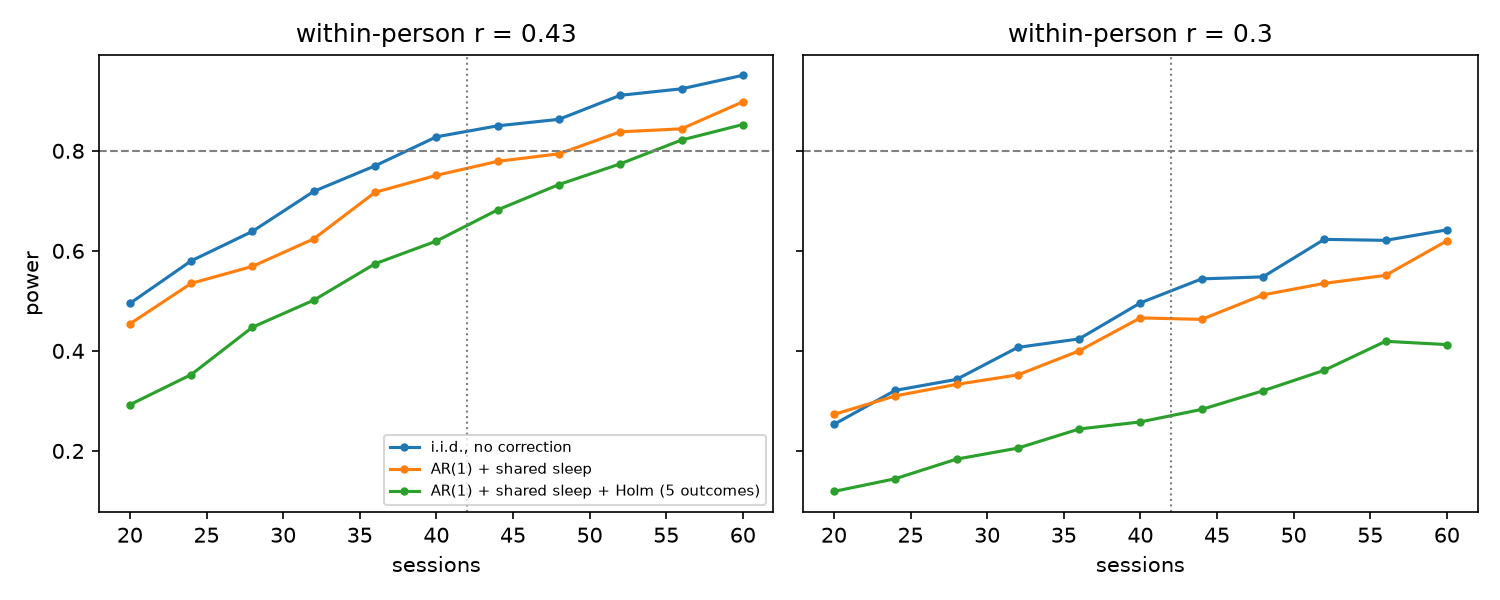
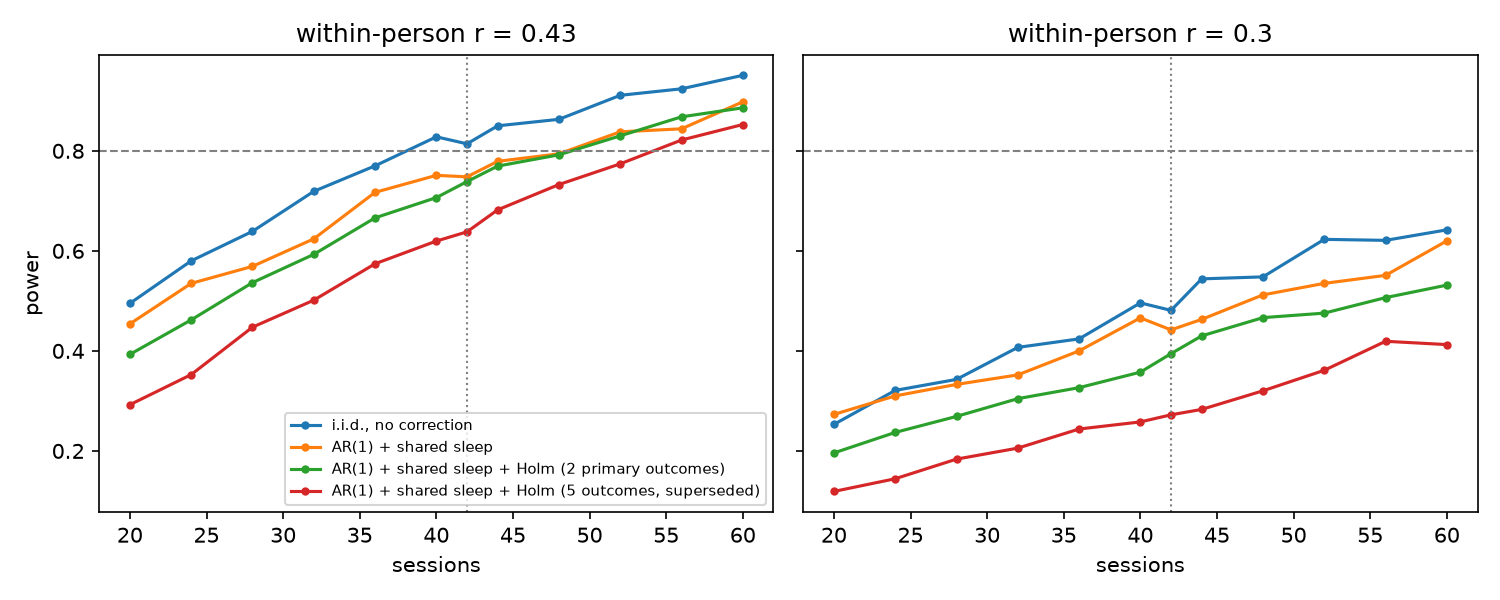
docs(MB-04): 2-outcome Holm family (P1 2-back d', P2 recall), effective power re-run, design.md aligned

diff --git a/analysis/python/scripts/power_report.py b/analysis/python/scripts/power_report.py
@@ -12,7 +12,7 @@ from mindbench import power
 OUT = Path(__file__).resolve().parents[3] / "docs" / "design"
 FIG = OUT / "figures"
 SEED = 20261117
-NS = list(range(20, 61, 4))
+NS = [20, 24, 28, 32, 36, 40, 42, 44, 48, 52, 56, 60]
 KW = dict(phi=0.3, paired_sleep=True, method="ar1")
 
 results = {"ns": NS, "curves": {}, "detectable": {}}
@@ -20,9 +20,20 @@ fig, axes = plt.subplots(1, 2, figsize=(10, 4), sharey=True)
 for ax, r in zip(axes, (0.43, 0.30)):
     iid = power.power_curve(NS, r=r, n_sims=1000, seed=SEED)
     ar = power.power_curve(NS, r=r, n_sims=1000, seed=SEED, **KW)
-    holm = power.power_curve(NS, r=r, n_sims=1000, seed=SEED, holm_m=5, **KW)
-    results["curves"][str(r)] = {"iid_uncorrected": iid, "ar1_shared_sleep": ar, "ar1_shared_sleep_holm5": holm}
-    for label, c in (("i.i.d., no correction", iid), ("AR(1) + shared sleep", ar), ("AR(1) + shared sleep + Holm (5 outcomes)", holm)):
+    holm2 = power.power_curve(NS, r=r, n_sims=1000, seed=SEED, holm_m=2, **KW)
+    holm5 = power.power_curve(NS, r=r, n_sims=1000, seed=SEED, holm_m=5, **KW)
+    results["curves"][str(r)] = {
+        "iid_uncorrected": iid,
+        "ar1_shared_sleep": ar,
+        "ar1_shared_sleep_holm2": holm2,
+        "ar1_shared_sleep_holm5_reference": holm5,
+    }
+    for label, c in (
+        ("i.i.d., no correction", iid),
+        ("AR(1) + shared sleep", ar),
+        ("AR(1) + shared sleep + Holm (2 primary outcomes)", holm2),
+        ("AR(1) + shared sleep + Holm (5 outcomes, superseded)", holm5),
+    ):
         ax.plot([n for n, _ in c], [p for _, p in c], marker="o", ms=3, label=label)
     ax.axhline(0.8, color="gray", ls="--", lw=1)
     ax.axvline(42, color="gray", ls=":", lw=1)
@@ -34,9 +45,14 @@ fig.tight_layout()
 fig.savefig(FIG / "power_curves.png", dpi=150)
 
 # Detectable r at 42 sessions (80% power), Holm over 5 true outcomes, AR(1) + shared sleep
-for r in (0.40, 0.45, 0.50, 0.55, 0.60):
-    results["detectable"][str(r)] = power.simulate_holm_power(
-        n=42, r=r, m=5, n_true=5, n_sims=1000, seed=SEED, **KW
+for m in (2, 5):
+    for r in (0.35, 0.40, 0.45, 0.50, 0.55):
+        results["detectable"][f"holm{m}_r{r}"] = power.simulate_holm_power(
+            n=42, r=r, m=m, n_true=m, n_sims=1000, seed=SEED, **KW
+        )
+for nt in (1, 2):
+    results["detectable"][f"holm2_one_true_n{nt}_r0.43"] = power.simulate_holm_power(
+        n=42, r=0.43, m=2, n_true=nt, n_sims=1000, seed=SEED, **KW
     )
 
 # AM/PM paired analytic (days = pairs)
@@ -46,4 +62,4 @@ results["paired_dz_for_80_at_21"] = 0.65
 print(json.dumps(results["detectable"]), json.dumps(results["paired"]))
 for r, d in results["curves"].items():
     for k, c in d.items():
-        print(r, k, [(n, round(p, 2)) for n, p in c if n in (28, 40, 44, 48, 60)])
+        print(r, k, [(n, round(p, 2)) for n, p in c if n in (28, 40, 42, 48, 60)])

diff --git a/analysis/python/tests/test_power.py b/analysis/python/tests/test_power.py
@@ -88,3 +88,13 @@ def test_power_curve_20_to_60():
     ps = [p for _, p in curve]
     assert ns == [20, 30, 40, 50, 60]
     assert ps[-1] > ps[0] + 0.3
+
+
+def test_two_outcome_holm_costs_less_than_five():
+    """Two-outcome Holm family (the preregistered family) keeps more power than five outcomes."""
+    kw = dict(n=42, r=0.43, phi=0.3, paired_sleep=True, method="ar1", n_sims=1500, seed=SEED)
+    uncorrected = power.simulate_corr_power(**kw)
+    holm2 = power.simulate_holm_power(m=2, n_true=2, **kw)
+    holm5 = power.simulate_holm_power(m=5, n_true=5, **kw)
+    assert holm5 < holm2 < uncorrected + 0.03
+    assert holm2 == pytest.approx(0.74, abs=0.05)

diff --git a/docs/design/power.md b/docs/design/power.md
@@ -1,34 +1,53 @@
 # Power Analysis (MB-04)
 
-Code: `analysis/python/mindbench/power.py`. Tests: `analysis/python/tests/test_power.py`. Figures and numbers: `figures/power_curves.png`, `power_results.json` (made by `analysis/python/scripts/power_report.py`, seed 20261117, 1,000 simulations per point, so about +/-0.015 sampling error).
+Code: `analysis/python/mindbench/power.py`. Tests: `analysis/python/tests/test_power.py`. Figure and numbers: `figures/power_curves.png`, `power_results.json` (made by `analysis/python/scripts/power_report.py`; seed 20261117; 1,000 simulations per point, so sampling error is about +/-0.015 and neighboring points can be slightly non-monotone).
 
 ## Model
-DV = r * sleep + noise. Sleep ~ N(0, 1); noise is unit-variance AR(1) with phi = 0.3; r is the within-person correlation. **AM and PM sessions of a day share the same night's sleep** (as in the design), so the predictor is autocorrelated too. The analysis uses a one-step Cochrane-Orcutt AR(1) correction. "Effective power" below includes the AR(1) correction and Holm over the 5 primary outcomes (all sharing the sleep predictor, independent errors).
+DV = r * sleep + noise. Sleep ~ N(0, 1); noise is unit-variance AR(1) with phi = 0.3; r is the within-person correlation. **AM and PM sessions of a day share the same night's sleep** (as in the design), so the predictor is autocorrelated too. The analysis uses a one-step Cochrane-Orcutt AR(1) correction. "Effective power" includes the AR(1) correction and Holm over the **2 primary outcomes** (P1 2-back d', P2 recall proportion), which share the sleep predictor and have independent errors.
+
+## Primary outcomes: why these two (Bharg's decision, Nov 17, 2026)
+Evidence: Lim & Dinges (2010), *Psychol. Bull.* 136(3), 375-389, Table 2 (24-48 h **total** sleep deprivation; text read from the paper, **verified**):
+
+| Domain (outcome) | Combined g | Maps to |
+|---|---|---|
+| Working memory, accuracy | -0.555 | **P1 2-back d'** |
+| Working memory, RT | -0.515 | |
+| Complex attention, accuracy | -0.479 | Stroop, Posner (as classified in the paper) |
+| Short-term memory, recall | -0.383 | **P2 free recall** |
+| Complex attention, RT | -0.312 | S1/S2 are RT difference scores |
+| Processing speed, RT | -0.302 | |
+| Simple attention (lapses / RT) | -0.762 / -0.732 | not in this battery |
+
+- P1 has the largest pooled effect among domains the battery measures, and the meta-analysis includes n-back studies directly (e.g. Choo et al. 2005, g = -0.660 for working memory).
+- P2 has a significant pooled recall effect with directly matching verbal-recall studies (individual effects -0.582 and -0.430).
+- Stroop and Posner fall under complex attention, but the pooled domain effect mixes many task types, and the study-level Stroop effects in the table are small or inconsistent (range -0.511 to +0.098), so **the interference and validity scores (differences between conditions) have weaker evidence**. The contrast threshold has no matching domain. These go to secondary/exploratory (S1-S3), outside the Holm family.
+
+Caveats: (1) these effects are from total sleep deprivation; natural sleep variation probably gives smaller effects; (2) the g values are not used as expected effect sizes (the effect-size review is deferred stretch work); (3) the task-to-domain mapping follows the paper's classification, checked only for the studies listed above; (4) the choice is made before any data collection.
 
 ## Spec-verified checks (tests)
-Analytic paired t: d_z = 0.5 needs n = 34 (0.808); d_z = 0.3 needs n = 90 (0.804); 21 AM/PM pairs at d_z = 0.65 give 0.809. Simulated i.i.d. correlation test: n = 40, r = .43 gives about 0.80; n = 28 gives about 0.65; n = 40, r = .30 gives about 0.48.
+Analytic paired t: d_z = 0.5 needs n = 34 (0.808); d_z = 0.3 needs n = 90 (0.804); 21 AM/PM pairs at d_z = 0.65 give 0.809. Simulated i.i.d. correlation test: n = 40, r = .43 about 0.80; n = 28 about 0.65; n = 40, r = .30 about 0.48.
 
-## Findings that differ from, or add to, the spec
-1. **AR(1) errors alone do not inflate type-I error** when sleep is independent across sessions (about 0.050). Inflation appears because AM and PM share the same sleep value: uncorrected type-I is about 0.083 at n = 40, phi = 0.3. The AR(1) correction brings it to about 0.061 (slightly liberal). This still motivates the AR model in MB-18, but the reason is the shared nightly sleep.
-2. Holm and the AR/shared-sleep results are **calibrated by simulation, not from the spec**.
+## Findings that differ from, or add to, the spec (kept for MB-18)
+1. **AR(1) errors alone do not inflate type-I error** when sleep is independent across sessions (about 0.050). Inflation appears because AM and PM share the same sleep value: uncorrected type-I is about 0.083 at n = 40, phi = 0.3; the AR(1) correction brings it to about 0.061 (slightly liberal). This still motivates the AR model in MB-18, but the reason is the shared nightly sleep. **MB-18 must model this (AR(1) errors, and day as a grouping term).**
+2. Holm and AR/shared-sleep results are **calibrated by simulation, not from the spec**.
 
-## Power at the planned 42 sessions (r = 0.43, the spec's 80% target)
-| Sessions | i.i.d., no correction | AR(1) + shared sleep | + Holm over 5 outcomes |
-|---|---|---|---|
-| 28 | 0.64 | 0.57 | 0.45 |
-| 40 | 0.83 | 0.75 | 0.62 |
-| **42 (planned)** | about 0.84 | about 0.77 | **about 0.66** |
-| 48 | 0.86 | 0.79 | 0.73 |
-| 60 | 0.95 | 0.90 | 0.85 |
+## Power at the planned 42 sessions (direct simulation at n = 42)
+| Within-person r | i.i.d., no correction | AR(1) + shared sleep | + Holm, 2 primary outcomes (both true) | Superseded: Holm over 5 |
+|---|---|---|---|---|
+| 0.43 | 0.81 | 0.75 | **0.74** | 0.64 |
+| 0.30 | 0.48 | 0.44 | **0.39** | 0.27 |
 
-For a smaller effect (r = 0.30) effective power at 42 sessions is only about 0.26 to 0.28 (Holm, AR(1)). Effect size detectable at 80% effective power with 42 sessions (Holm, AR(1), shared sleep): **r of about 0.49** (power 0.70 at r = .45, 0.83 at r = .50, 0.91 at r = .55).
+(An earlier draft of this document quoted "about 0.84 / 0.77 / 0.66" for 42 sessions; those were rough, not direct simulations, and are replaced by the values above.)
 
-**AM vs PM (H2):** 21 paired days at d_z = 0.65 give 0.81 for one test but **0.56 at alpha = .01** (Bonferroni bound for 5 outcomes; Holm is slightly better). Reaching 80% at alpha = .01 needs 32 pairs (about 32 days) at d_z = 0.65.
+If only one of the two primary outcomes has a true effect at r = 0.43, its power is about 0.69. Effect size detectable at 80% effective power with 42 sessions (Holm over 2, AR(1), shared sleep, both outcomes truly affected): **r of about 0.46** (0.52 at r = .35, 0.66 at .40, 0.79 at .45, 0.87 at .50, 0.94 at .55). With the old 5-outcome family it was about 0.49.
 
-## Session-count decision (for Bharg's approval)
-**Keep 42 sessions (21 days x 2)**, as in `design.md`. Reasoning: 2-3 weeks is the stated burden; 60 sessions (30 days) would reach about 0.85 effective power for r = .43 but adds 9 days of daily sessions; 42 gives honest 80% power only for large within-person effects (r of about 0.5 or more, d_z of about 0.65 for AM/PM at an uncorrected alpha).
+**AM vs PM (H2):** 21 paired days at d_z = 0.65 give 0.81 for one test and **0.71 at alpha = .025** (Bonferroni bound for 2 outcomes; Holm is slightly better); 80% at alpha = .025 would need 26 pairs (about 26 days).
 
-**Honest framing:** at 42 sessions the study can reliably detect only large effects once multiplicity and autocorrelation are accounted for; a null result is likely and is an acceptable outcome. Natural sleep variation probably produces smaller effects than lab sleep deprivation (not reviewed in MB-02, deferred). Options if more power is wanted: more days (up to 30), or fewer primary outcomes (a smaller Holm family).
+## Session count
+**Decision (Bharg, Nov 17, 2026): 42 sessions (21 days x 2).** With 2 primary outcomes, effective power at r = 0.43 is about 0.74 (60 sessions would give about 0.89).
+
+## Honest framing
+At 42 sessions the study can reliably detect only large within-person effects (r of about 0.46 or more) once autocorrelation and the 2-outcome Holm family are accounted for. Effects of natural sleep variation are probably smaller than those from total sleep deprivation, so **a null result is likely, and it is an acceptable outcome** of this study. Secondary outcomes are exploratory and underpowered; they will be reported as such.
 
 ## Limits
-Assumes a linear within-person effect, constant phi, independent outcomes, and normal errors. Real outcomes are likely correlated, which would make Holm less costly than shown. Not simulated: practice effects (modeled via session number in MB-18) and missing sessions.
+Assumes a linear within-person effect, constant phi, independent outcomes (real outcomes are probably correlated, which makes Holm less costly than shown), and normal errors. Not simulated: practice effects (modeled via session number in MB-18) and missing sessions.

diff --git a/docs/design/design.md b/docs/design/design.md
@@ -31,36 +31,42 @@ All values below are **[design choice]** unless noted. They are chosen to fit th
 Each task has a short instruction screen and a practice block with feedback (MB-12).
 
 ## 4. Hypotheses and outcomes
-**Primary outcomes (one per task; preregistered):**
+**Primary outcomes (2; preregistered; the only members of the Holm family):**
 | ID | Outcome (per session) | Definition |
 |---|---|---|
-| P1 | Contrast threshold | Mean of last 6 reversals (dB or contrast units; lower = better) |
-| P2 | Posner validity effect | Mean correct invalid RT minus mean correct valid RT (ms), after trimming |
-| P3 | Stroop interference | Mean correct incongruent RT minus mean correct congruent RT (ms), after trimming |
-| P4 | 2-back d' | z(H) - z(FA) with log-linear correction |
-| P5 | Recall proportion | Correct words / 40 (also serial-position curve, secondary) |
+| P1 | 2-back d' | z(H) - z(FA) with log-linear correction (higher = better) |
+| P2 | Recall proportion | Correct words / 40 (higher = better; serial-position curve is secondary) |
 
-**Secondary:** SDT d' and c (yes/no block), Stroop accuracy interference, mean RT per task, DDM parameters (H3), sleepiness effects.
+**Why these two (decision by Bharg, Nov 17, 2026; evidence in `power.md`):** among the battery's outcomes they have the strongest prior evidence of sensitivity to sleep loss in the Lim & Dinges (2010) meta-analysis of 24-48 h total sleep deprivation (working-memory accuracy g = -0.555; short-term memory recall g = -0.383, with directly matching n-back and verbal recall studies). That evidence is from total sleep deprivation; effects of natural sleep variation are probably smaller.
 
-- **H1 (sleep, directional):** more prior-night sleep predicts better performance: lower P1, smaller P3, higher P4 and P5. For P2 (validity effect) no reliable direction is established **[UNVERIFIED]**, so H1 for P2 is two-sided.
-- **H2 (time of day, two-sided):** AM and PM differ on P1-P5 (no direction assumed: time-of-day effects are task-dependent). Tested with paired AM/PM comparisons within day.
-- **H3 (mechanism, Stroop and Posner):** if sleep or time of day has an effect on RT performance, it acts on drift rate v, boundary separation a, both, or neither. Expectation that less sleep lowers drift rate is **[UNVERIFIED]**. "Cannot tell" is an acceptable answer.
+**Secondary / exploratory (outside the Holm family; no multiplicity correction; labeled exploratory in all reports):**
+| ID | Outcome | Definition |
+|---|---|---|
+| S1 | Stroop interference | Mean correct incongruent RT minus mean correct congruent RT (ms), after trimming |
+| S2 | Posner validity effect | Mean correct invalid RT minus mean correct valid RT (ms), after trimming |
+| S3 | Contrast threshold | Mean of last 6 reversals (lower = better) |
+| S4 | SDT d' and criterion c | Yes/no block, log-linear corrected |
+| S5 | Other | Stroop accuracy interference, mean RT per task, recall serial-position curve, DDM parameters (H3), sleepiness effects |
+
+- **H1 (sleep, directional, confirmatory):** more prior-night sleep predicts better performance: higher P1 and higher P2. Directional predictions for the secondary outcomes (lower S1 interference, lower S3 threshold; S2 two-sided, no reliable direction **[UNVERIFIED]**) are exploratory.
+- **H2 (time of day, two-sided, confirmatory):** AM and PM differ on P1 and P2 (no direction assumed: time-of-day effects are task-dependent). Tested with paired AM/PM comparisons within day. The same comparison on S1-S3 is exploratory.
+- **H3 (mechanism, Stroop and Posner; exploratory, outside the Holm family):** if sleep or time of day has an effect on RT performance (S1, S2), it acts on drift rate v, boundary separation a, both, or neither. Expectation that less sleep lowers drift rate is **[UNVERIFIED]**. "Cannot tell" is an acceptable answer.
 - **Classic-effect checks (manipulation checks, not hypotheses):** Stroop interference > 0, Posner validity effect > 0, a U-shaped serial-position curve.
 
 ## 5. Exclusion and data rules (code exactly as written, MB-15)
 1. **Trial RT trimming:** drop Stroop and Posner trials with RT < 200 ms or > 2,500 ms (RT exactly 200 or 2,500 is kept). Design choice: the upper bound equals the response deadline.
-2. **Error trials:** RT outcomes (P2, P3) use correct trials only.
+2. **Error trials:** RT outcomes (S1, S2) use correct trials only.
 3. **Session exclusion:** exclude the whole session if Stroop congruent accuracy < 60% (exactly 60% is kept), or if the session is incomplete (any of the 5 tasks or the questionnaire missing).
 4. **Pilot data:** the first 10 sessions (`is_pilot = 1`) are never in confirmatory analyses.
 5. **Missing data:** no imputation. Sessions missing the sleep log are dropped from H1 analyses only. Missing sessions are not made up, except the extension rule in section 7.
 6. **Stop rule:** a stopped session (see `self_pilot_policy.md`) counts as incomplete.
 
 ## 6. Analysis plan (summary; details in MB-18 to MB-21)
-- **H1:** per primary outcome, regression of the outcome on sleep hours, session number (linear plus log term) and time of day, with AR(1) or HAC errors; the PM and AM of a day are not independent, so day is a grouping term. Report estimates with 95% intervals, plus a Bayesian version (MB-20).
+- **H1:** per outcome (P1, P2 confirmatory; S-outcomes exploratory), regression of the outcome on sleep hours, session number (linear plus log term) and time of day, with AR(1) or HAC errors; the PM and AM of a day are not independent, so day is a grouping term. Report estimates with 95% intervals, plus a Bayesian version (MB-20).
 - **H2:** paired AM/PM difference per day (paired t, bootstrap CI with at least 10,000 resamples).
 - **H3:** DDM fits per condition (PyDDM) with competing drift/boundary/both/neither models, compared by BIC; posterior-predictive checks on RT quantiles.
 - **Practice effects:** modeled explicitly via session number, preregistered.
-- **Multiple comparisons:** Holm correction across the 5 primary outcomes within each of H1 and H2 (alpha = .05). Secondary outcomes are reported without correction and labeled exploratory. **Flag for MB-04:** Holm lowers power below the spec's uncorrected figures (about 80% for r = 0.43 at 40 sessions); MB-04 must state the effective power.
+- **Multiple comparisons:** Holm correction across the 2 primary outcomes (P1, P2) within each of H1 and H2 (alpha = .05). Secondary outcomes are reported without correction and labeled exploratory. Effective power under this family is in `power.md` (about 0.74 at r = 0.43, 42 sessions, with AR(1) and shared nightly sleep).
 - **Inference criteria:** a frequentist effect is "supported" if its Holm-adjusted p < .05 and the direction matches; null results are reported as such, with intervals.
 
 ## 7. Stopping rule and deviations

diff --git a/docs/status/STATUS.md b/docs/status/STATUS.md
@@ -34,8 +34,9 @@
 - Approved by Bharg and merged after Cursor review (Nov 17, 2026).
 
 ## MB-04: Power analysis (PR open)
-- `analysis/python/mindbench/power.py` + tests (14 pass), `docs/design/power.md`, figure and numbers via `scripts/power_report.py`.
-- Effective power at 42 sessions, r = .43: about 0.77 with AR(1) + shared nightly sleep, about 0.66 after Holm over 5 outcomes. 80% effective power needs r of about 0.49.
-- Spec nuance: AR(1) errors alone do not inflate type-I; shared AM/PM sleep does (0.083 uncorrected).
-- Decision for Bharg: keep 42 sessions (recommended) or extend to up to 60.
-- numpy 2.4.6, scipy 1.17.1, matplotlib pinned.
+- `analysis/python/mindbench/power.py` + tests, `docs/design/power.md`, figure and numbers via `scripts/power_report.py`.
+- **Decisions (Bharg, Nov 17, 2026):** keep 42 sessions; reduce primary outcomes to 2 (P1 2-back d', P2 recall proportion), chosen from the verified Lim & Dinges (2010) Table 2; Stroop, Posner, contrast threshold and others are secondary/exploratory, outside the Holm family.
+- Effective power at 42 sessions, r = .43 (AR(1) + shared nightly sleep + Holm over 2): about 0.74. 80% effective power needs r of about 0.46. A null result is likely and acceptable.
+- Carry to MB-18: AR(1) errors alone do not inflate type-I; the shared AM/PM nightly sleep does (0.083 uncorrected). Model AR(1) errors and day grouping.
+- Design doc updated to match (primary/secondary outcomes, H1/H2/H3, Holm family of 2).
+- Pending: Cursor review of PR #6. MB-06 not started (waiting for the review, per Bharg).
